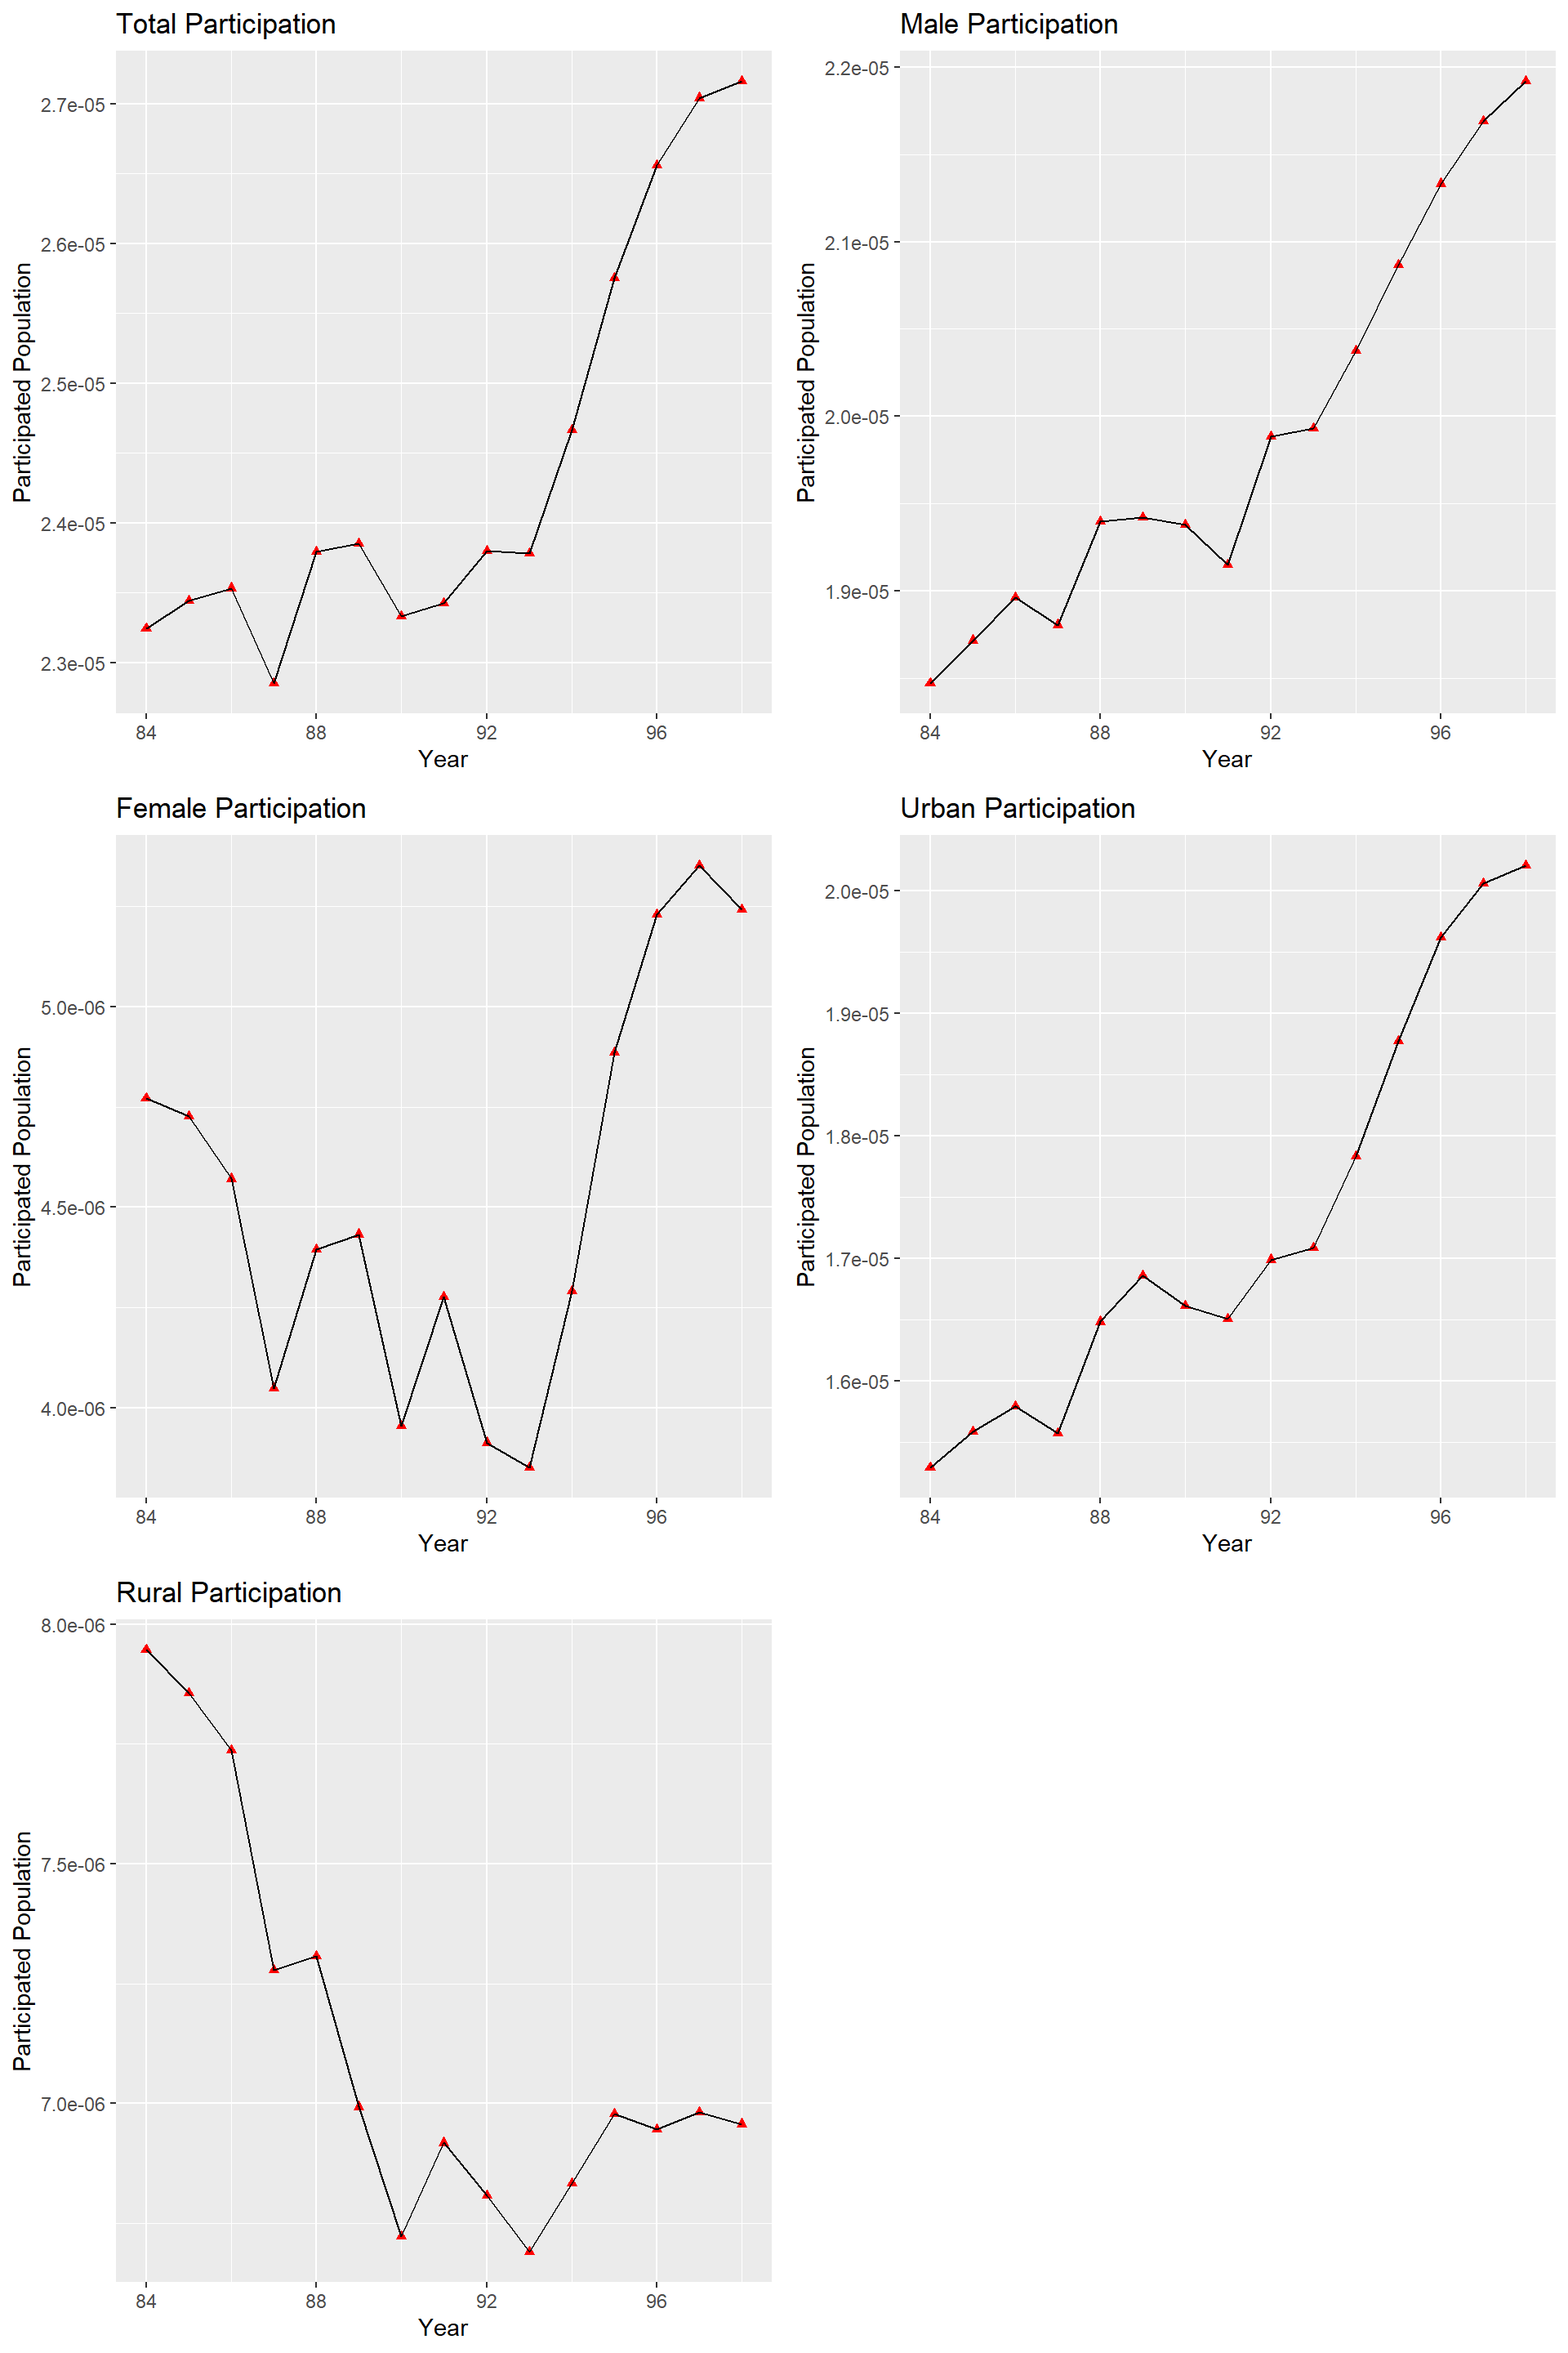
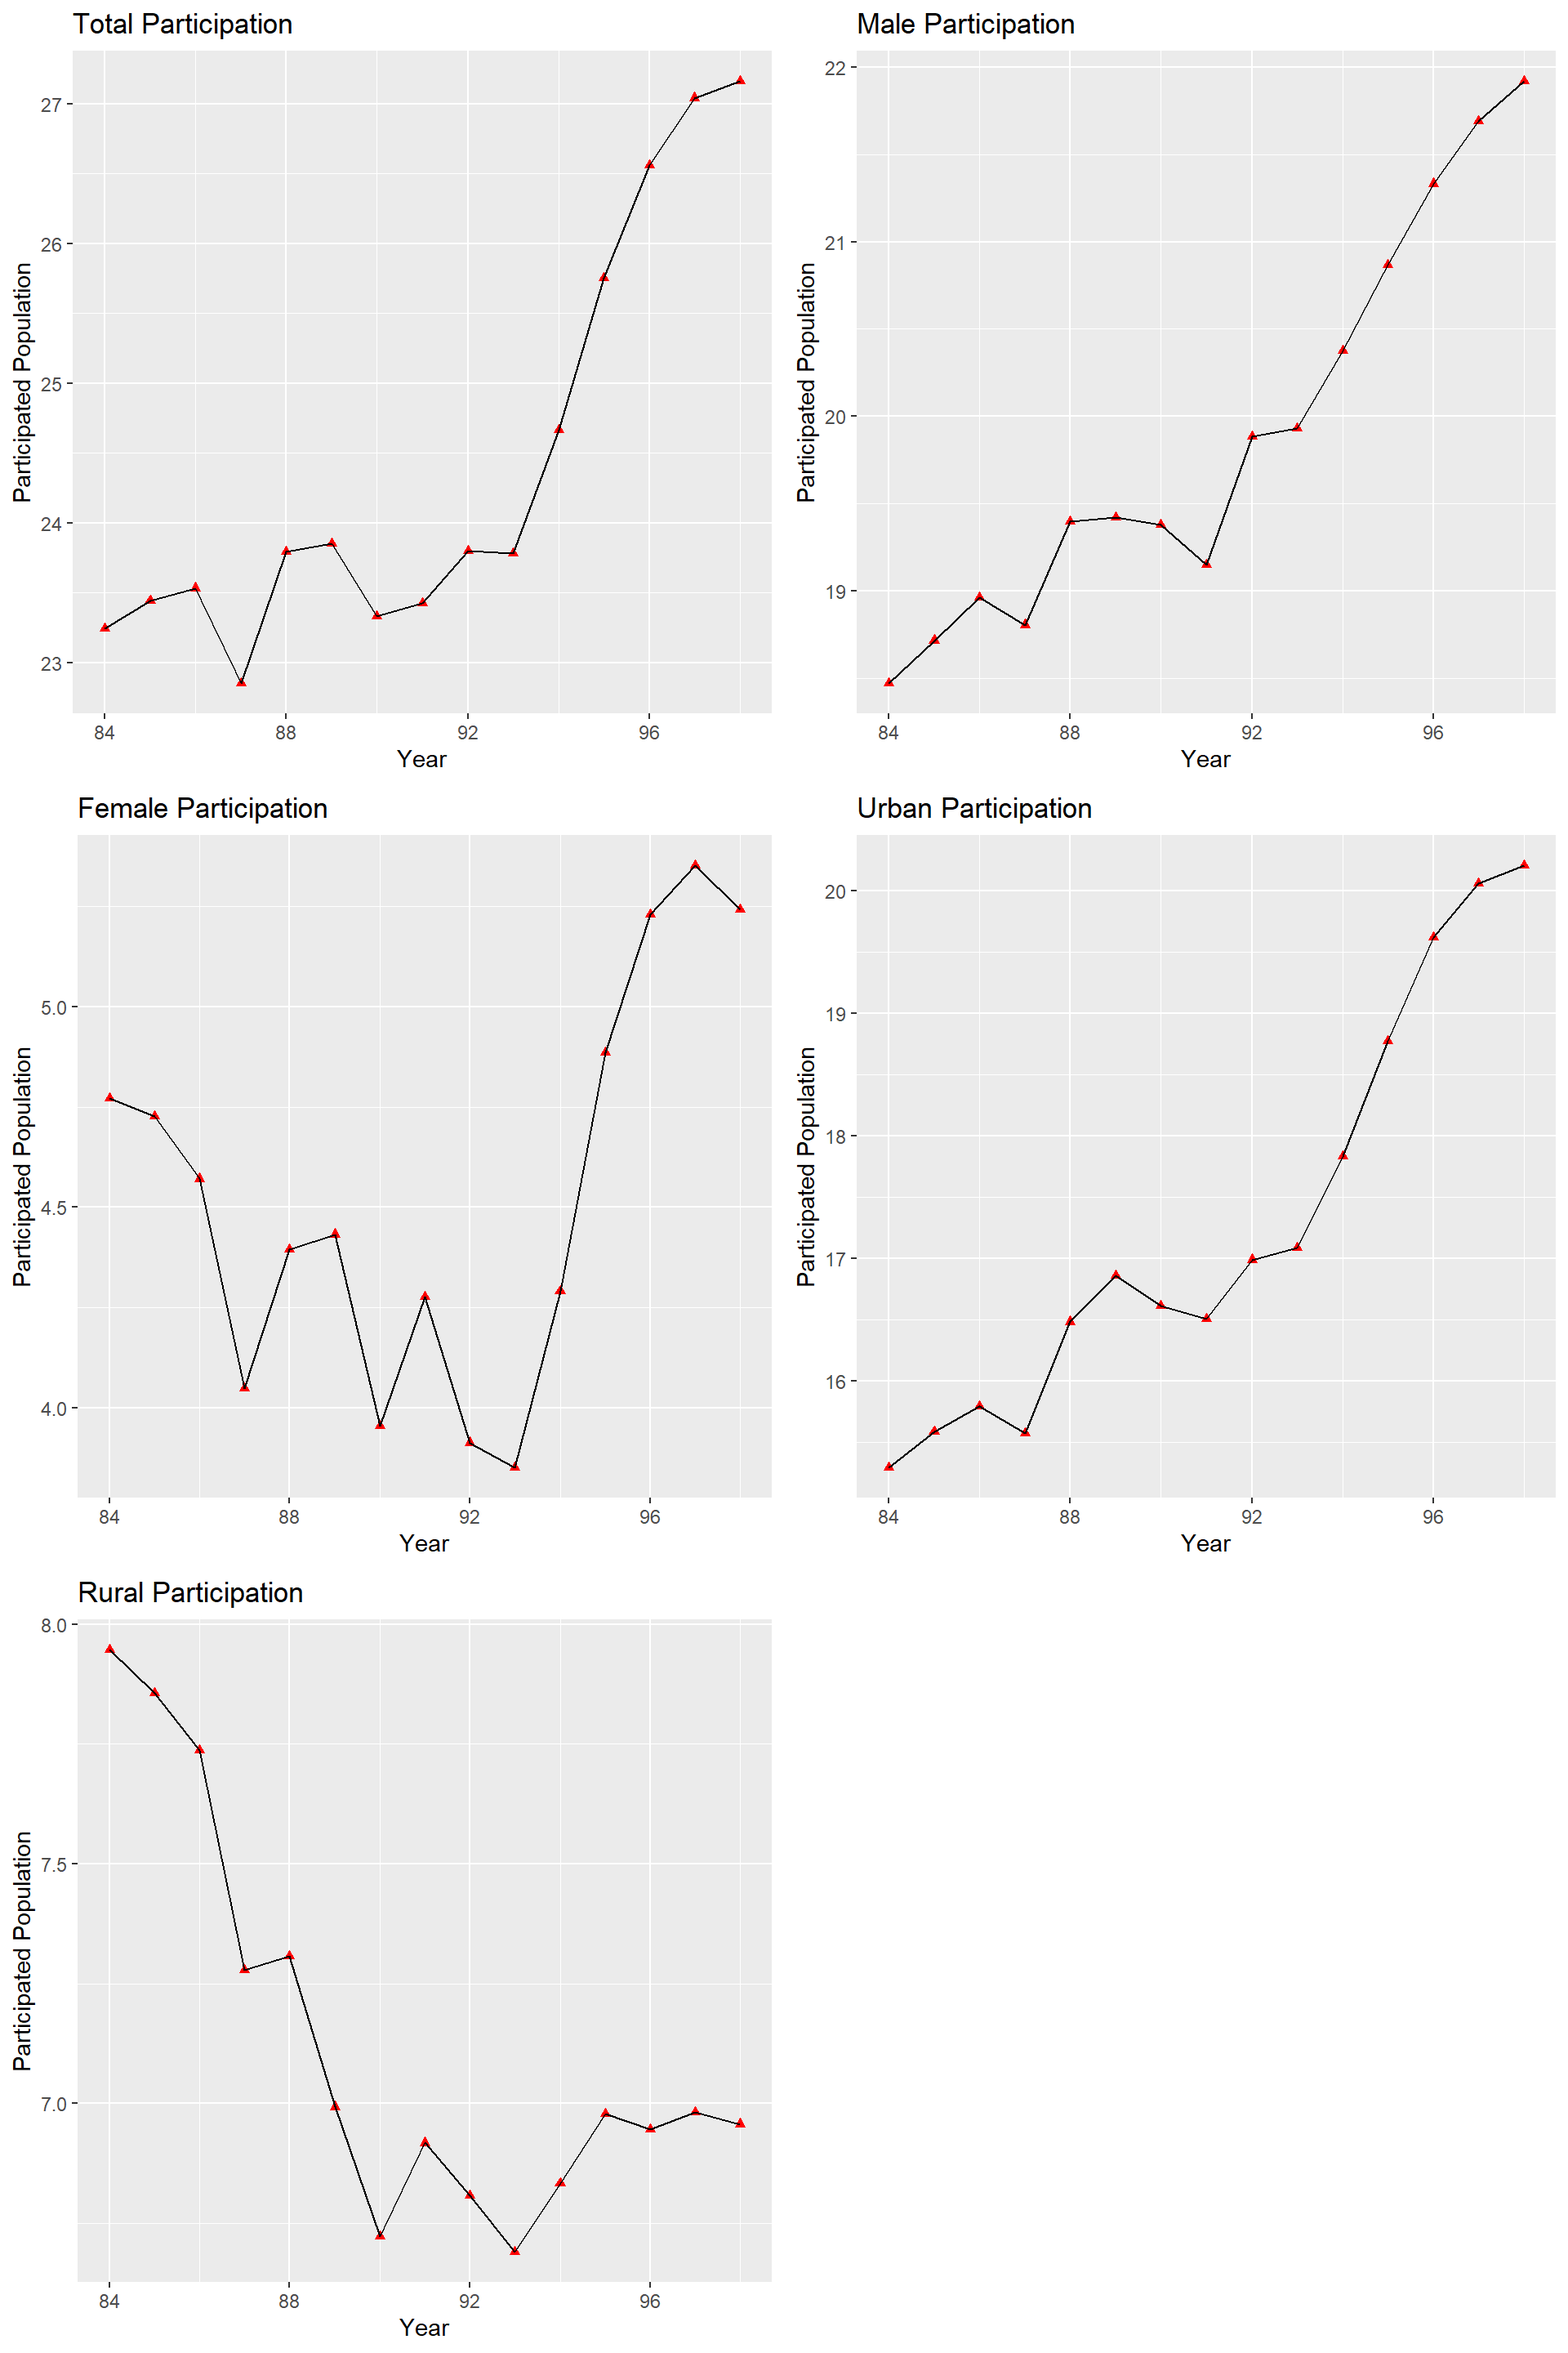
commit results(html, figs)

diff --git a/docs/descriptive-evidence.html b/docs/descriptive-evidence.html
@@ -248,7 +248,7 @@ code span.wa { color: #60a0b0; font-weight: bold; font-style: italic; } /* Warni
 <span id="cb1-23"><a href="descriptive-evidence.html#cb1-23" aria-hidden="true" tabindex="-1"></a></span>
 <span id="cb1-24"><a href="descriptive-evidence.html#cb1-24" aria-hidden="true" tabindex="-1"></a>LFSINP1  <span class="ot">&lt;-</span> <span class="cf">function</span>(Var, <span class="at">xlab =</span> <span class="st">&quot;&quot;</span>, <span class="at">ylab =</span> <span class="st">&quot;&quot;</span>, <span class="at">Main =</span> <span class="st">&quot;&quot;</span>) {</span>
 <span id="cb1-25"><a href="descriptive-evidence.html#cb1-25" aria-hidden="true" tabindex="-1"></a>  </span>
-<span id="cb1-26"><a href="descriptive-evidence.html#cb1-26" aria-hidden="true" tabindex="-1"></a>p <span class="ot">&lt;-</span> <span class="fu">ggplot</span>(<span class="at">data =</span> LFS_Indicators_Y,<span class="at">mapping =</span> <span class="fu">aes</span>(<span class="at">x=</span>Year,<span class="at">y=</span><span class="fu">eval</span>(<span class="fu">parse</span>(<span class="at">text =</span>Var ))<span class="sc">/</span><span class="dv">1000000</span>))<span class="sc">+</span></span>
+<span id="cb1-26"><a href="descriptive-evidence.html#cb1-26" aria-hidden="true" tabindex="-1"></a>p <span class="ot">&lt;-</span> <span class="fu">ggplot</span>(<span class="at">data =</span> LFS_Indicators_Y,<span class="at">mapping =</span> <span class="fu">aes</span>(<span class="at">x=</span>Year,<span class="at">y=</span><span class="fu">eval</span>(<span class="fu">parse</span>(<span class="at">text =</span>Var ))))<span class="sc">+</span></span>
 <span id="cb1-27"><a href="descriptive-evidence.html#cb1-27" aria-hidden="true" tabindex="-1"></a>  <span class="fu">geom_point</span>(<span class="at">color =</span> <span class="st">&quot;Red&quot;</span>,<span class="at">shape =</span> <span class="dv">17</span>)<span class="sc">+</span></span>
 <span id="cb1-28"><a href="descriptive-evidence.html#cb1-28" aria-hidden="true" tabindex="-1"></a>  <span class="fu">geom_line</span>()<span class="sc">+</span></span>
 <span id="cb1-29"><a href="descriptive-evidence.html#cb1-29" aria-hidden="true" tabindex="-1"></a>  <span class="fu">labs</span>(<span class="at">title =</span> Main,<span class="at">x=</span>xlab,<span class="at">y=</span>ylab)</span>
